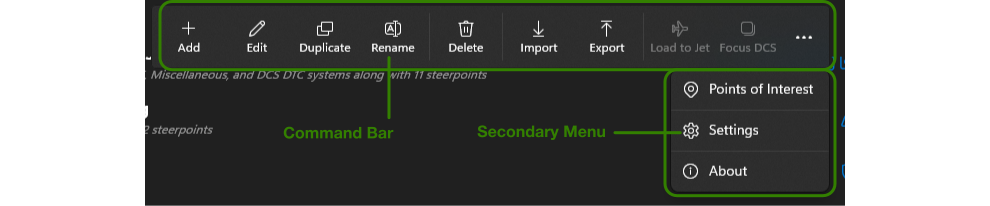
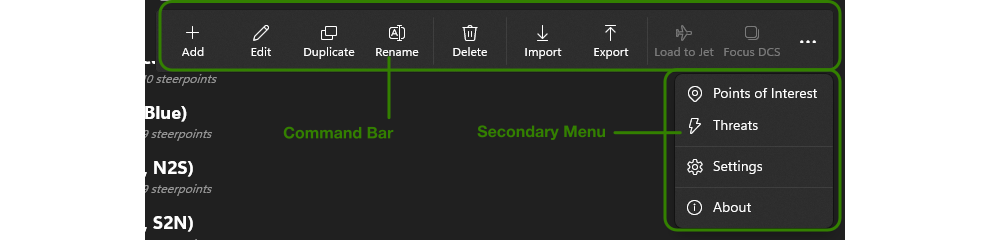
Documentation Updates
Reworked threat/POI database sections, started to add map content.

diff --git a/doc/README.md b/doc/README.md
@@ -242,12 +242,12 @@ interacting with DCS in any capacity.
 
 ### Working with DCS DTC
 
-ED delivered an initial DTC implementation in DCS 2.9.15.9408 released in April of 2025 that
-supports some modules. While the DTC implementation in DCS is not yet complete, it does provide
-some advantages over tools like JAFDTC (primarily, by being able to inject configurations
-directly into the jet without needing to rely on clicking cockpit controls). For some
-airframes, JAFDTC provides the ability to push configurations into the jet through the ED DCS
-DTC, with some restrictions. The
+ED delivered an initial native DTC implementation in DCS 2.9.15.9408 released in April of 2025
+that supports some modules. While the DTC implementation in DCS is not yet complete, it does
+provide some advantages over tools like JAFDTC (primarily, by being able to inject
+configurations directly into the jet without needing to rely on clicking cockpit controls). For
+some airframes, JAFDTC provides the ability to push configurations into the jet through the ED
+DCS DTC, with some restrictions. The
 [*Common Elements Guide*](https://github.com/51st-Vfw/JAFDTC/tree/master/doc/Common_Elements.md#working-with-the-native-dcs-dtc)
 and
 [airframe guides](#what-now)
@@ -343,8 +343,6 @@ The command bar at the top of the page in area (3) provides quick access to the 
 can perform on configurations. Clicking on the `...` button at the right of the bar displays
 the command bar in its "open" state that includes the secondary commands along with help text
 for all commands.
-
-**TODO: update for threat editor**
 
 ![](images/uguide_config_list_command_ui.png)
 
@@ -553,6 +551,55 @@ configuration through the source configuration). When unlinking, the system conf
 retains its setup, but will no longer change due to updates from the source configuration.
 Icons for linked systems are badged with a small gold dot as described earlier.
 
+## Filtering & Selecting Database Elements
+
+JAFDTC uses a common set of UI widgets to allow you to filter and select from a list of
+database elements such as points of interest (POI) or threats. Systems, such as navigation
+systems, that allow you to interact with the database elements may use these widgets to make it
+easier to use the database by limiting displayed elements to a relevant subset. The widgets
+include an optional search box with a filter button (the filter button is always on the right
+of a filter box). Together, these widgets allow you to limit the database elements to those
+that meet certain criteria. The highlight state of the filter button indicates whether or not a
+filter is being applied with a tinted or highlighted button indicating the elements are
+currently filtered,
+
+![](images/uguide_poi_filter_state.png)
+
+The filter button specifies broad filters to apply to database elements while the search box
+allows you to fine tune the filter to elements with specific names or fields.
+
+Clicking the filter button opens a dialog that lets you specify filter criteria. For example,
+the point of interest filter dialog looks like this,
+
+![](images/uguide_poi_filter_ui.png)
+
+The bulk of the content in the dialog depends on the specific database being filtered and will
+differ from database to database. The three buttons at the bottom of the dialog are common to
+all databases and apply changes to the current filter and dismiss the dialog.
+
+- **Set Filter** &ndash; Sets the filter to match the fields in the dialog.
+- **Reset to Defaults** &ndash; Removes the current filter and sets the filter to its default
+  setup.
+- **Cancel** &ndash; Leaves the current filter unchanged.
+
+Typing in the search box will show a list of database elements with that match the typed text
+(for example, name of a point of interest) along with the criteria the filter dialog is
+currently set for. For example, if the filter dialog for the points of interest database were
+set to show only system POIs, typing "Foo" in the search box would further filter the elements
+to those that are system POIs with "Foo" in their name.
+
+![](images/uguide_poi_list_filter_ui.png)
+
+As you type, the list of matching elements updates to include those that match. Typing `RETURN`
+or clicking on the **Accept Filter** button sets the filter on names. Clicking on
+**Clear Filter** removes the filter on names. Clicking on an item in the matching elements
+list selects a element.
+
+The
+[airframe guides](#what-now)
+detail the specific systems that make these controls available when configuring airframe
+systems.
+
 ## Point of Interest Database Page
 
 JAFDTC provides a *Points of Interest* (POI) database that contains common locations throughout
@@ -610,7 +657,32 @@ The *Point of Interest Filter* controls at the top left of the window in area (1
 to filter the points of interest listed in the
 [*Point of Interest List*](#point-of-interst-list).
 These controls operate as described
-[below](#selecting--filtering-points-of-interest).
+[earlier](#filtering--selecting-database-elements).
+The filter dialog for point of interest database elements is as follows,
+
+![](images/uguide_poi_filter_ui.png)
+
+The top portion of the dialog specifies the filter criteria specific to the point of interest
+database.
+
+- **Theater** &ndash; Limits the points of interest to a particular DCS map or theater.
+- **Campaign** &ndash; Limits the points of interest to a particular campaign defined in the
+  POI database.
+- **Tags** &ndash; Limits the points of interest to those that contain the specified tags. For
+  eaxmple, setting this field to `foo; bar` matches any point of interest with tags that
+  include `foo` and `bar` (comparisons are case-insensitive).
+- **Shows...** &ndash; Shows System, User, or Campaign points of interest as selected.
+
+For example, setting **Theater** to "Nevada", **Campaign** to "Dark Materials", **Tags** to
+"Base; Target", and selecting only **Shows Campaign...** would limit the POIs listed to
+campaign POIs that are in Nevada, part of the "Dark Materials" campaign, with either "Base"
+or "Target" in their tags.
+
+Once you have set the filter, typing in the search box will show a list of points of interest
+with names that match the typed text (case-insensitive and partial matches allowed) and other
+properties (for example, theater) that match the current filter.
+
+The three buttons at the bottom of the dialog operate as described earlier.
 
 ### Point of Interest Command Bar
 
@@ -750,66 +822,6 @@ semicolon-separated list of tags like "`Airbase;Target;Required`" and may be emp
 feet. JAFDTC infers the theater from the latitude and longitude and expects the point of
 interest location to fall within a DCS theater.
 
-## Filtering & Selecting Points of Interest
-
-JAFDTC uses a common set of UI widgets to allow you to filter and select from a list of points
-of interest (POI) as
-[described earlier](#point-of-interest-filter).
-Systems, such as navigation systems, that allow you to interact with the POI database may use
-these widgets to make it easier to use the POI database by limiting displayed POIs to a
-relevant subset of all POIs JAFDTC knows about. The widgets include a search box with a filter
-button to its right. The filter button allows you to limit the points of interest to those that
-meet certain criteria. The highlight state of the filter button indicates whether or not a
-filter is being applied with a tinted or highlighted button indicating the POIs are currently
-filtered,
-
-![](images/uguide_poi_filter_state.png)
-
-Clicking the filter button opens a dialog that lets you specify filter criteria,
-
-**TODO: update**
-![](images/uguide_poi_filter_ui.png)
-
-The three buttons at the bottom of the dialog apply changes to the current filter and dismiss
-the dialog.
-
-- **Set Filter** &ndash; Sets the filter to match the fields in the dialog.
-- **Reset to Defaults** &ndash; Removes the current filter and sets the filter to its default
-  setup.
-- **Cancel** &ndash; Leaves the current filter unchanged.
-
-The other fields in the dialog together specify the filter,
-
-- **Theater** &ndash; Limits the points of interest to a particular DCS map or theater.
-- **Campaign** &ndash; Limits the points of interest to a particular campaign defined in the
-  POI database.
-- **Tags** &ndash; Limits the points of interest to those that contain the specified tags. For
-  eaxmple, setting this field to `foo; bar` matches any point of interest with tags that
-  include `foo` and `bar` (comparisons are case-insensitive).
-- **Shows...** &ndash; Shows System, User, or Campaign points of interest as selected.
-
-For example, setting **Theater** to "Nevada", **Campaign** to "Dark Materials", **Tags** to
-"Base; Target", and selecting only **Shows Campaign...** would limit the POIs listed to
-campaign POIs that are in Nevada, part of the "Dark Materials" campaign, with either "Base"
-or "Target" in their tags.
-
-Once you have set the filter, typing in the search box will show a list of points of interest
-with names that match the typed text and other properties (for example, theater) that match the
-current filter.
-
-**TODO: change filter terminology here?**
-![](images/uguide_poi_list_filter_ui.png)
-
-As you type, the list of matching points of interest updates to include the PoIs that match.
-Typing `RETURN` or clicking on the **Accept Filter** button sets the filter on names. Clicking
-on **Clear Filter** removes the filter on names. Clicking on an item in the matching points of
-interest list selects a single PoI.
-
-The
-[airframe guides](#what-now)
-detail the specific systems that make these controls available when configuring airframe
-systems.
-
 ## Threat Database Page
 
 JAFDTC provides a *Threat* database that contains sizes of weapon engagement zones for various
@@ -856,15 +868,30 @@ The *Threat Filter* controls at the top left of the window in area (1) allow you
 threats listed in the
 [*Threat List*](#threat-list).
 These controls operate as described
-[below](#selecting--filtering-points-of-interest).
+[below](#filtering--selecting-database-elements).
+The filter dialog for threat database elements is as follows,
+
+![](images/uguide_threat_filter_ui.png)
+
+The top portion of the dialog specifies the filter criteria specific to the threat database.
+
+- **Shows coalition** &ndash; Limits the points of interest to a particular DCS map or theater.
+- **Shows category** &ndash; Limits the points of interest to a particular campaign defined in the
+  POI database.
+- **Shows...** &ndash; Shows System or User threats as selected.
+
+Once you have set the filter, typing in the search box will show a list of threats with display
+names that match the typed text (case-insensitive and partial matches allowed) and other
+properties (for example, category) that match the current filter.
+
+The three buttons at the bottom of the dialog operate as described earlier.
 
 ### Threat Command Bar
 
 The command bar in area (2) provides commands you can apply to threats selected from the
 [*Threat List*](#threat-list),
 
-**TODO: fix me**
-![](images/uguide_poi_command_ui.png)
+![](images/uguide_threat_command_ui.png)
 
 The command bar includes the following commands,
 
@@ -902,6 +929,8 @@ You can select one or more threats from the table using the standard Windows tab
 interactions such as `SHIFT`-click to extend the selection, and so on.
 
 ### Editing Threats
+
+TODO
 
 Clicking on a threats copies its parameters (coalition, category, display name, DCS type,
 WEZ radius) to the threat editor at the bottom of the page in area (4). The bottom button in
@@ -958,94 +987,11 @@ to specify the file to import from. The import process will update threats from 
 that match threats in the imported data. Threats from the import file that are not in the
 database are added.
 
-## Filtering & Selecting Threats
-
-JAFDTC uses a common set of UI widgets to allow you to filter and select from a list of points
-of interest (POI) as
-[described earlier](#point-of-interest-filter).
-Systems, such as navigation systems, that allow you to interact with the POI database may use
-these widgets to make it easier to use the POI database by limiting displayed POIs to a
-relevant subset of all POIs JAFDTC knows about. The widgets include a search box with a filter
-button to its right. The filter button allows you to limit the points of interest to those that
-meet certain criteria. The highlight state of the filter button indicates whether or not a
-filter is being applied with a tinted or highlighted button indicating the POIs are currently
-filtered,
-
-![](images/uguide_poi_filter_state.png)
-
-Clicking the filter button opens a dialog that lets you specify filter criteria,
-
-**TODO: update**
-![](images/uguide_poi_filter_ui.png)
-
-The three buttons at the bottom of the dialog apply changes to the current filter and dismiss
-the dialog.
-
-- **Set Filter** &ndash; Sets the filter to match the fields in the dialog.
-- **Reset to Defaults** &ndash; Removes the current filter and sets the filter to its default
-  setup.
-- **Cancel** &ndash; Leaves the current filter unchanged.
-
-The other fields in the dialog together specify the filter,
-
-- **Theater** &ndash; Limits the points of interest to a particular DCS map or theater.
-- **Campaign** &ndash; Limits the points of interest to a particular campaign defined in the
-  POI database.
-- **Tags** &ndash; Limits the points of interest to those that contain the specified tags. For
-  eaxmple, setting this field to `foo; bar` matches any point of interest with tags that
-  include `foo` and `bar` (comparisons are case-insensitive).
-- **Shows...** &ndash; Shows System, User, or Campaign points of interest as selected.
-
-For example, setting **Theater** to "Nevada", **Campaign** to "Dark Materials", **Tags** to
-"Base; Target", and selecting only **Shows Campaign...** would limit the POIs listed to
-campaign POIs that are in Nevada, part of the "Dark Materials" campaign, with either "Base"
-or "Target" in their tags.
-
-Once you have set the filter, typing in the search box will show a list of points of interest
-with names that match the typed text and other properties (for example, theater) that match the
-current filter.
-
-**TODO: change filter terminology here?**
-![](images/uguide_poi_list_filter_ui.png)
-
-As you type, the list of matching points of interest updates to include the PoIs that match.
-Typing `RETURN` or clicking on the **Accept Filter** button sets the filter on names. Clicking
-on **Clear Filter** removes the filter on names. Clicking on an item in the matching points of
-interest list selects a single PoI.
-
-The
-[airframe guides](#what-now)
-detail the specific systems that make these controls available when configuring airframe
-systems.
-
-
-
-
-
-
-
-
-
-
-
-
-
-
-
-
-
-
-
-
-
-
-
-TODO
-
-
 ## Map Window
 
 TODO
+
+![](images/uguide_map_ui.png)
 
 double click centers map
 
@@ -1053,6 +999,9 @@ shift double click centers and re-zooms map
 
 click off marker drags map
 
+right click yardstick
+
+![](images/uguide_map_command.png)
 
 The command bar includes the following commands,
 
@@ -1061,6 +1010,10 @@ The command bar includes the following commands,
 - **Delete** &ndash; Deletes the selected marker if it can be deleted.
 - **Import** &ndash; Import temporary markers from a file (WIP).
 - **Settings** &ndash; Manages settings for the map window.
+
+TODO
+
+![](images/uguide_map_filter_ui.png)
 
 Adding navpoints
 

diff --git a/README.md b/README.md
@@ -19,8 +19,8 @@ the following DCS airframes and systems,
 > Support for the *Harrier*, *Tomcat*, and *Mirage* airframes is experimental and has had
 > limited testing.
 
-> While the application should run under Windows 10, all development is on
-> Windows 11 exclusively.
+> While JAFDTC should run under Windows 10, all development currently takes place on Windows 11
+> exclusively. Testing on Windows 10 is likewise limited.
 
 This document describes how to get JAFDTC installed and running on your system. See the
 [_User's Guide_](https://github.com/51st-Vfw/JAFDTC/tree/master/doc)
